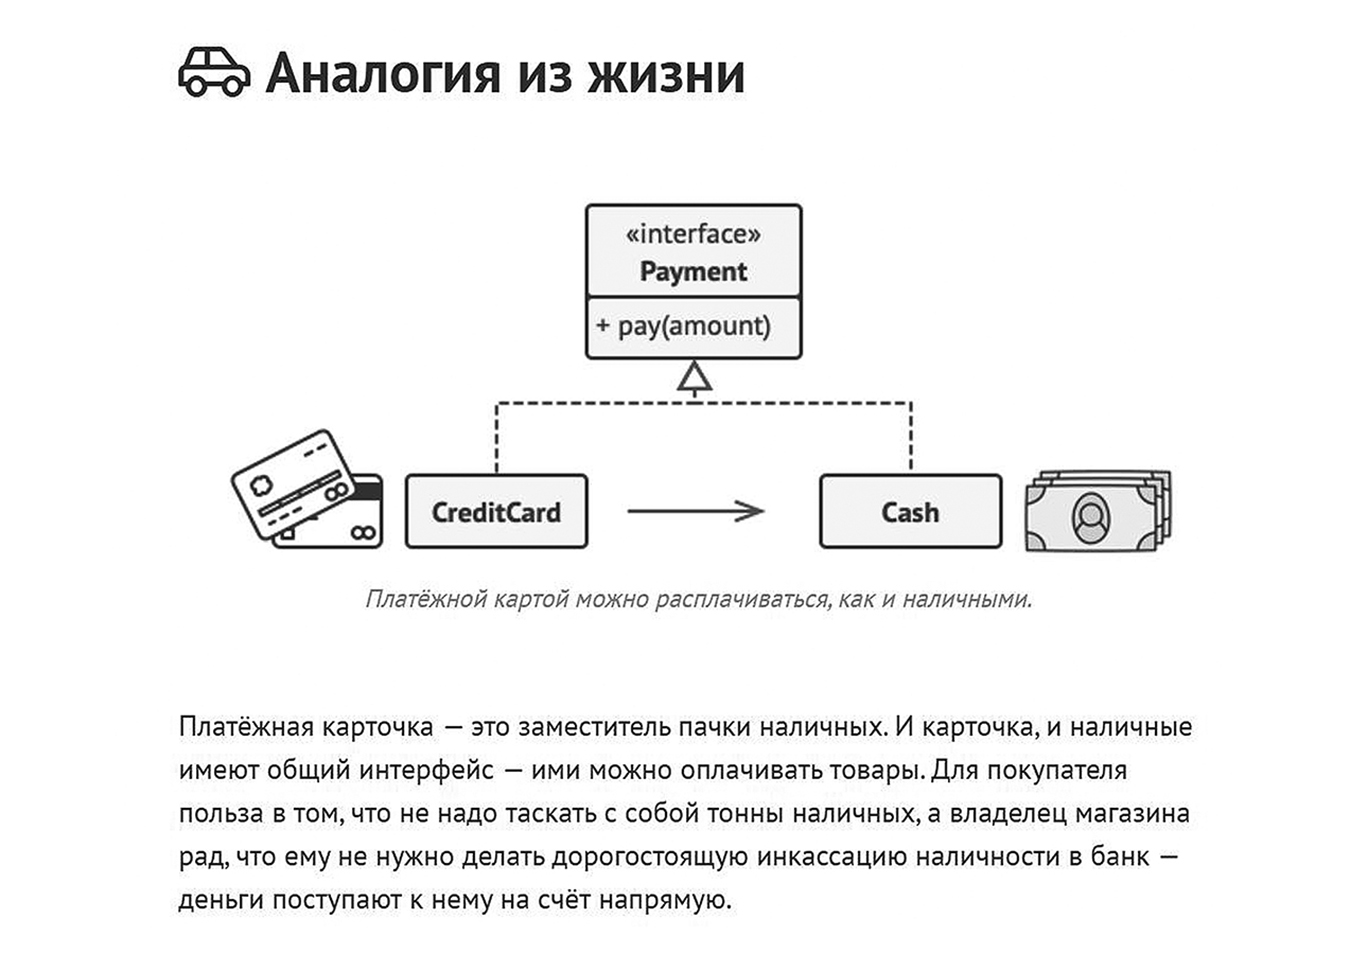
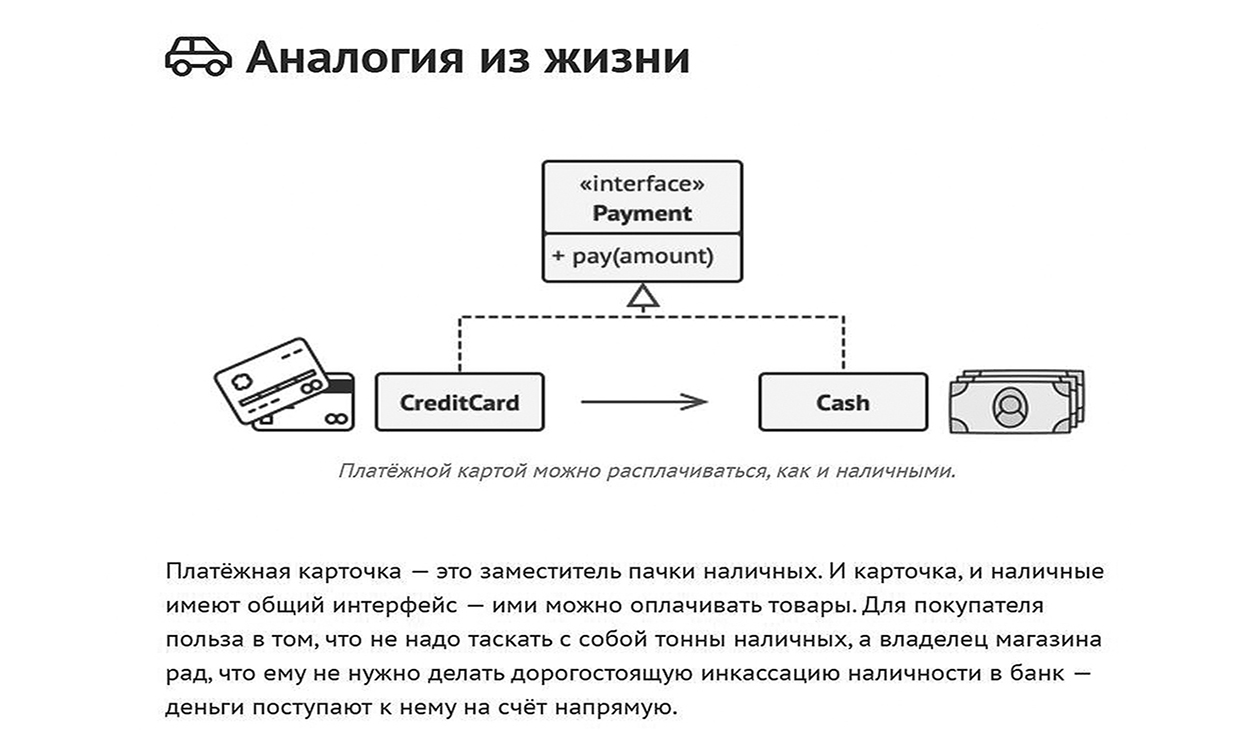
fix size images

diff --git a/src/com/company/presentation/Canvas.java b/src/com/company/presentation/Canvas.java
@@ -18,9 +18,10 @@ public class Canvas extends JPanel {
         super.paint(g);
         try {
             image = ImageIO.read(model.getCurrentFile());
+            image = image.getScaledInstance(1250, 750, Image.SCALE_FAST);
         } catch (IOException e) {
             e.printStackTrace();
         }
-        g.drawImage(image, 280, 35, null);
+        g.drawImage(image, 130, 20, null);
     }
 }
